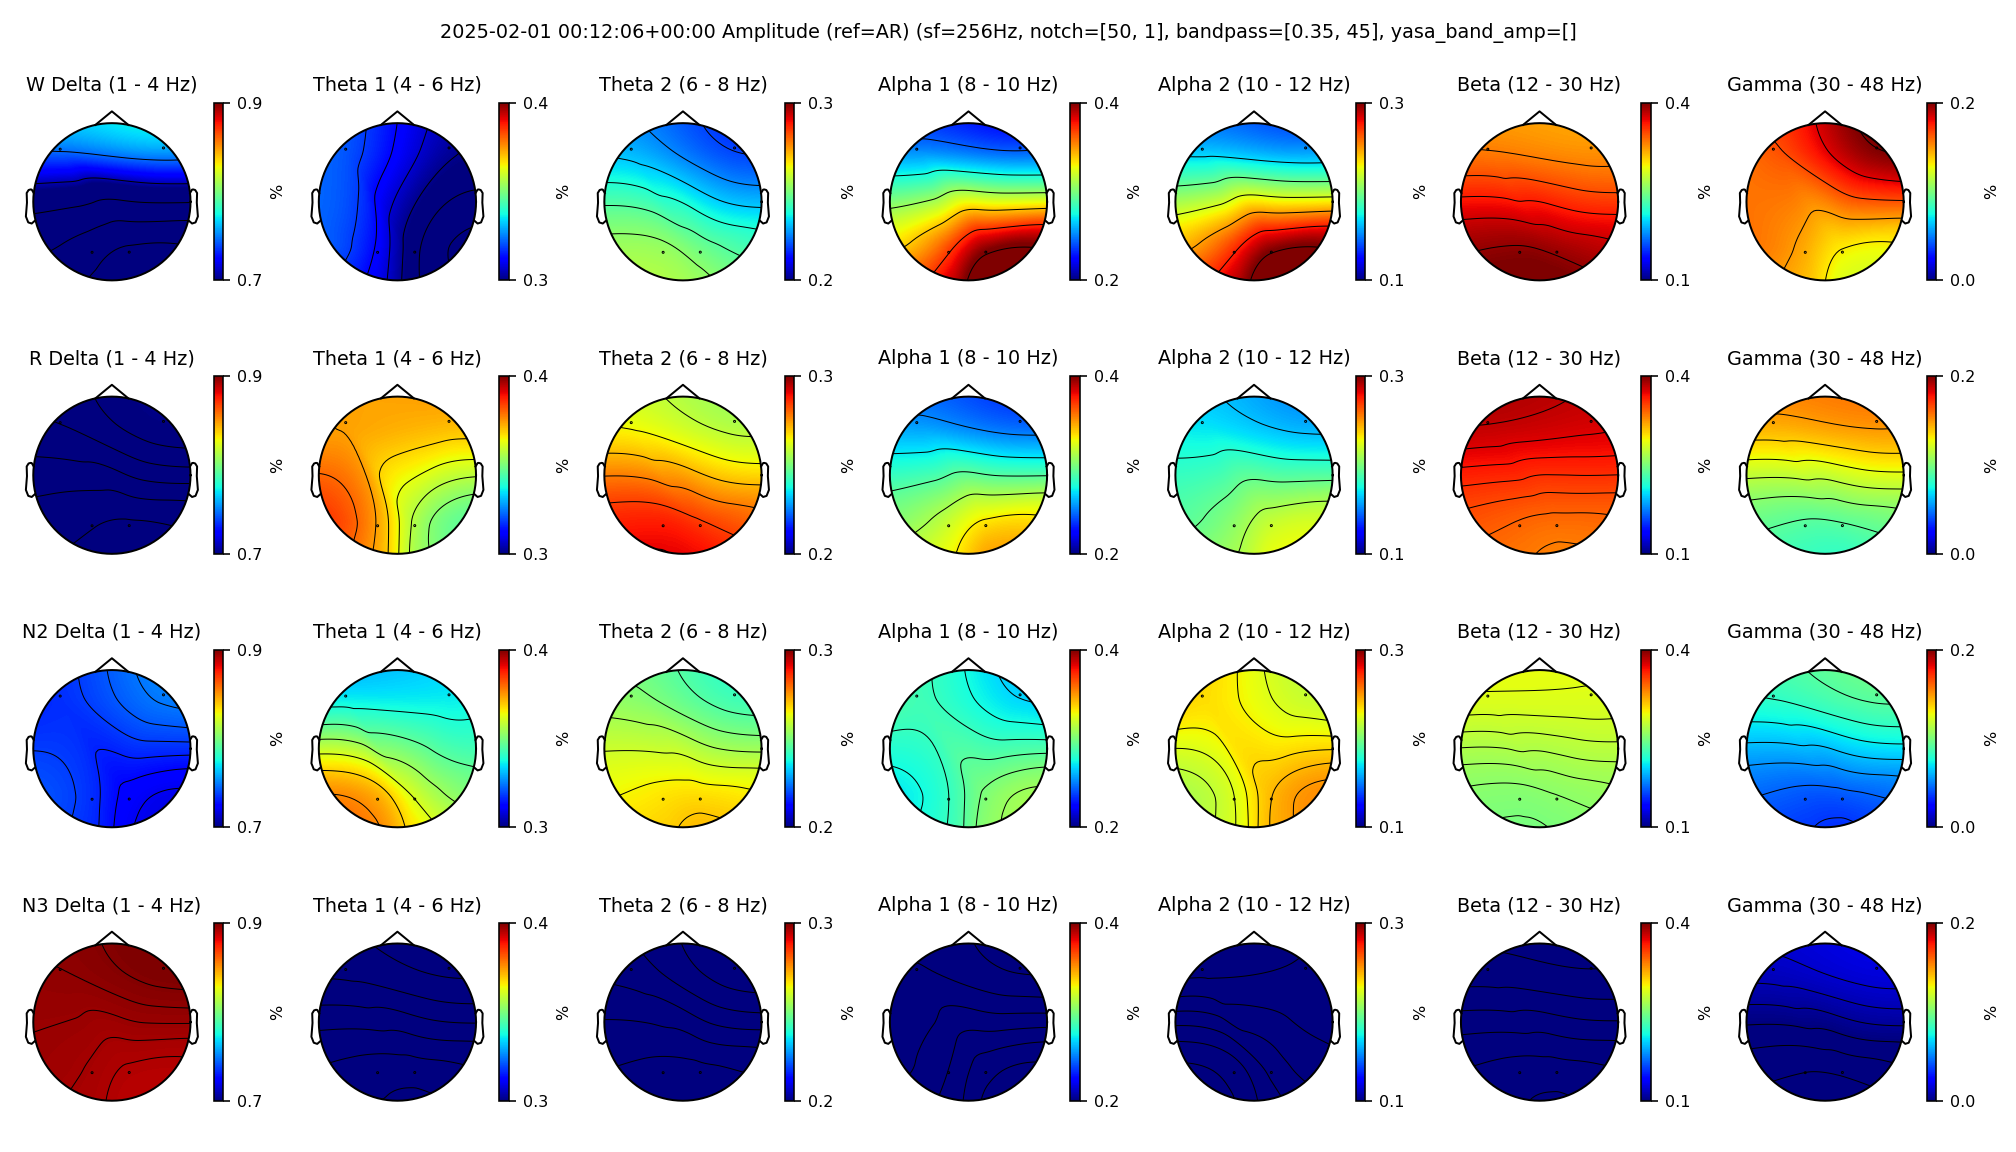
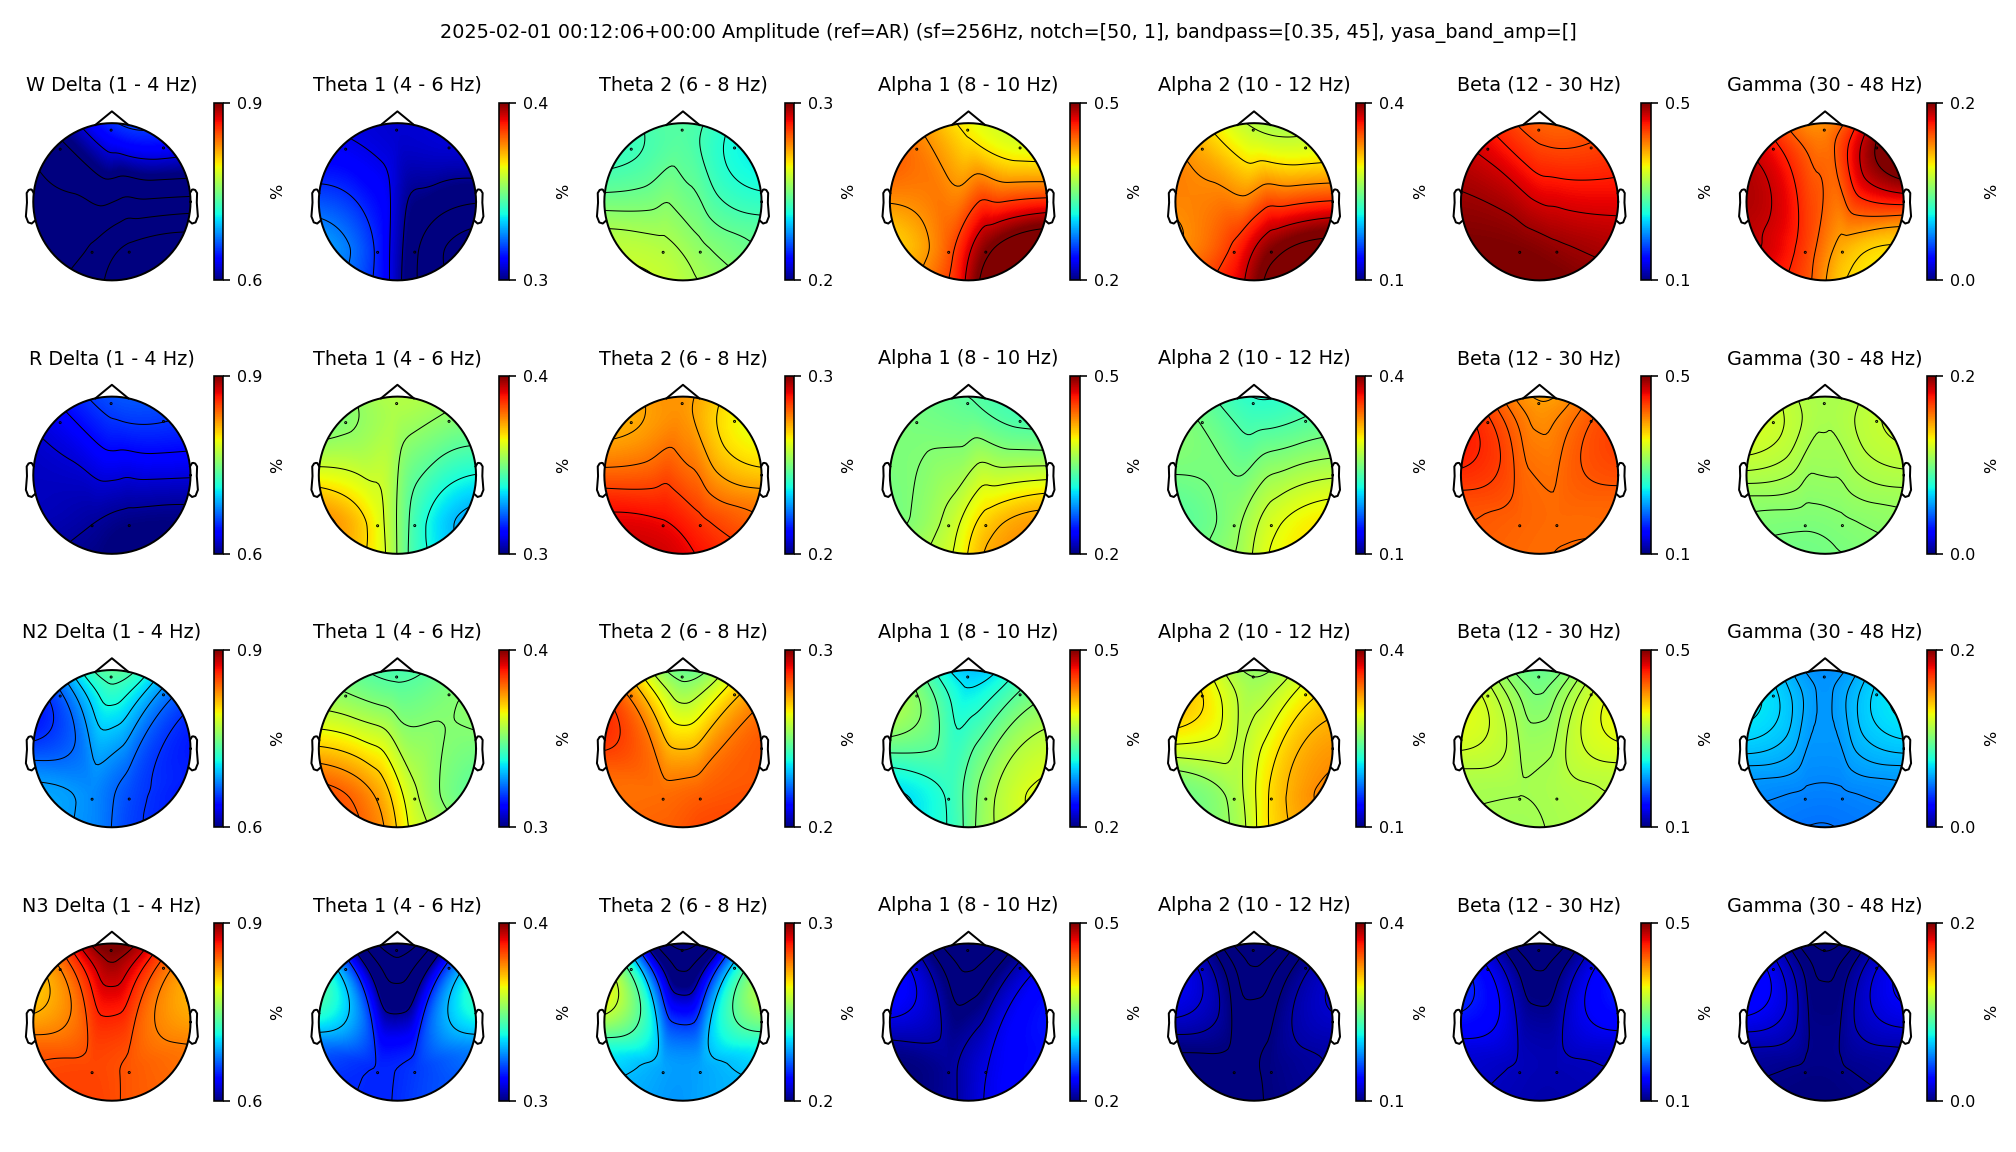
spectrum improvements and fixes

diff --git a/sleep_analysis.py b/sleep_analysis.py
@@ -75,12 +75,10 @@ topo_ref = 'AR' # 'REST' / 'AR' rereference type
 bp_relative = True # bandpass is relative or abs for topomap
 
 # multitaper spectrograms settings, can leave as is if not sure what is it
-spect_vlim = [6,24]
-spect_lim = [1,16]
-freq_lim = [1,30]
-time_bandwidth = 5 # Set time-half bandwidth
+spect_vlim = [6,24]; spect_lim = [1,16]; freq_lim = [1,30]
+time_bandwidth = 24 # Set time-half bandwidth
 num_tapers = time_bandwidth*2 - 1  # Set number of tapers (optimal is time_bandwidth*2 - 1)
-window_params = [90, 45]  # Window size is Xs with step size of Ys
+window_params = [60, 30]  # Window size is Xs with step size of Ys
 
 # units for labels
 units = {'psd_dB': 'dB(µV²/Hz)', 'amp': 'µV', 'p': 'µV²', 'p_dB': 'dB(µV²)', 'rel': '%'}
@@ -882,7 +880,6 @@ if load_bp or not ('bps' in globals() or 'bps' in locals()):
     raws_bp = []
     for index, raw in enumerate(raws):
         eeg_ch_names = list(refs_ch[index].keys())
-        eeg_ch_names.remove(refs[index])
         raw_bp  = raws[index].copy().pick(eeg_ch_names)
         ten_twenty_montage = mne.channels.make_standard_montage('standard_1020')
         raw_bp.set_montage(ten_twenty_montage , match_case=False, on_missing="ignore")
@@ -910,7 +907,6 @@ if load_bp or not ('bps' in globals() or 'bps' in locals()):
 if 'Topomap' in plots:
     for index, raw in enumerate(raws):
         eeg_ch_names = list(refs_ch[index].keys())
-        eeg_ch_names.remove(refs[index])
         raw  = raws[index].copy().pick(eeg_ch_names)
         
         fig, axes = plt.subplots(len(stages_plot),len(bp_bands), 
@@ -952,7 +948,6 @@ if 'Topomap' in plots:
     png_file = f"{dts[index].strftime(cfg['file_dt_format'])} topomap {user}.png"; png_filename = os.path.join(cfg['image_dir'], png_file)    
     if not os.path.isfile(png_filename) or image_overwrite: fig.savefig(png_filename)
 
-
 if 'Spectrum' in plots:
     # Multitaper spectrogram from Prerau Labs Multitaper Toolbox
     # https://github.com/preraulab/multitaper_toolbox/blob/master/python/multitaper_spectrogram_python.py
@@ -967,6 +962,12 @@ if 'Spectrum' in plots:
     clim_scale = False  # do not auto-scale colormap
     verbose = False  # print extra info
     xyflip = False  # do not transpose spect output matrix
+    
+    ch_order = ['F', 'C', 'O', 'T', 'A']
+    order_map = {letter: l_index for l_index, letter in enumerate(ch_order)}
+    def order_value(string):
+        first_letter = string[0]
+        return order_map.get(first_letter, float('inf'))  # Use inf for letters not in custom_order
 
     if load_spect or not ('spects_l' in globals() or 'spects_l' in locals()):
         spects_l = []; stimes_l = []; sfreqs_l = []
@@ -974,9 +975,11 @@ if 'Spectrum' in plots:
             spects_c = []; stimes_c = []; sfreqs_c = []
             eeg_ch_names = list(refs_ch[index].keys())
             eeg_ch_names.remove(refs[index])
-            raw  = raws[index].copy().pick(eeg_ch_names)
+            ch_eeg_sorted = sorted(eeg_ch_names, key=order_value)
 
-            for ch_index, ch in enumerate(eeg_ch_names):
+            raw  = raws[index].copy().pick(ch_eeg_sorted)
+
+            for ch_index, ch in enumerate(ch_eeg_sorted):
                 spect, stimes, sfreqs = multitaper_spectrogram(
                     raw.get_data(picks = [ch], units='uV'), raw.info['sfreq'], 
                     frequency_range, time_bandwidth, num_tapers, 
@@ -993,17 +996,82 @@ if 'Spectrum' in plots:
         eeg_ch_names = list(refs_ch[index].keys())
         eeg_ch_names.remove(refs[index])
         raw  = raws[index].copy().pick(eeg_ch_names)
-        n_ax = 4
-        n_cycles = 1 if len(eeg_ch_names) == 4 else round(len(eeg_ch_names)/n_ax + .5)
+        
+        # summary spectrum
+        fig, ax = plt.subplots(figsize=(14, 5))
+        old_fontsize = plt.rcParams["font.size"]
+        plt.rcParams.update({"font.size": 18})
+        fig.suptitle(f'#{raw.info["meas_date"].strftime(cfg["plot_dt_format"])} Spectrogram, {spect_specs}')
+
+        spect, stimes, sfreqs = np.array(spects_c).max(axis=0), stimes_c[0], sfreqs_c[0]
+        spect_data = nanpow2db(spect)
+        
+        start_time = raw.info['meas_date']
+        times = [start_time + timedelta(seconds=int(s)) for s in stimes]
+        
+        dtx = times[1] - times[0]
+        dy = sfreqs[1] - sfreqs[0]
+        x_s = mdates.date2num(times[0]-dtx)
+        x_e = mdates.date2num(times[-1]+dtx)
+        extent = [x_s, x_e, sfreqs[-1]+dy, sfreqs[0]-dy]
+
+        im = ax.imshow(
+            spect_data, extent=extent, aspect='auto', 
+            cmap=plt.get_cmap('jet'), 
+            vmin = spect_vlim[0], vmax = spect_vlim[1],
+            )
+        ax.xaxis_date()  # Interpret x-axis values as dates
+        ax.xaxis.set_major_formatter(mdates.DateFormatter('%H:%M'))  # Format time as HH:MM:SS
+        ax.invert_yaxis()
+        ax.set_xlabel("Time")
+        ax.set_ylabel("Frequency (Hz)")
+        ax.set_title(f'All Channels ({sig_specs})')
+        tick_intervals = np.linspace(x_s, x_e, 11)  # 11 points include 0% to 100%
+        ax.set_xticks(tick_intervals)
+        
+        h_min = 1.75; h_max = 13
+        p_size = 2
+        hypno_df = hypno_dfs[index]
+        hypno_stages = {}
+        # N3=3, N2=2, N1=1, R=4, W=0
+        hypno_stages['n3'] = hypno_df[(hypno_df['h'] == 3)]
+        hypno_stages['r'] = hypno_df[(hypno_df['h'] == 4)]
+        hypno_stages['n2'] = hypno_df[(hypno_df['h'] == 2)]
+        hypno_stages['w'] = hypno_df[(hypno_df['h'] == 0)]
+
+        if len(hypno_stages)> 0:
+            plt.scatter(hypno_stages['n3']['dt'], np.repeat(h_min, len(hypno_stages['n3'])), c='blueviolet', s=p_size, marker='s')
+            plt.scatter(hypno_stages['n2']['dt'], np.repeat(h_min + (h_max-h_min)/2, len(hypno_stages['n2'])), c='blue', s=p_size, marker='s')
+            plt.scatter(hypno_stages['r']['dt'], np.repeat(h_min + 2*(h_max-h_min)/3, len(hypno_stages['r'])), c='red', s=p_size, marker='s')
+            plt.scatter(hypno_stages['w']['dt'], np.repeat(h_max, len(hypno_stages['w'])), c='orange', s=p_size, marker='s')
+
+        # Scale colormap
+        if clim_scale:
+            clim = np.percentile(spect_data, [5, 98])  # from 5th percentile to 98th
+            im.set_clim(clim)  # actually change colorbar scale
+
+        plt.tight_layout()
+        plt.rcParams.update({"font.size": old_fontsize})
+        plt.subplots_adjust(left=0.05, right=0.95, top=0.85, bottom=0.05) 
+        
+        png_file = f"{dts[index].strftime(cfg['file_dt_format'])} merged spectrum {user}.png"; png_filename = os.path.join(cfg['image_dir'], png_file)    
+        if not os.path.isfile(png_filename) or image_overwrite: fig.savefig(png_filename)
+        
+        
+        n_ax = 2
+        n_up = 0 if (len(eeg_ch_names) % 2) == 0 else .5
+        n_cycles = round(len(eeg_ch_names)/n_ax + n_up)
 
         for cy in range(n_cycles):
             fig, axes = plt.subplots(n_ax, 
-                      figsize=(12, n_ax*6))
-            fig.suptitle(f'#{raw.info["meas_date"]} Multitaper spectrogram, {spect_specs}')
+                      figsize=(14, n_ax*5))
+            old_fontsize = plt.rcParams["font.size"]
+            plt.rcParams.update({"font.size": 18})
+            fig.suptitle(f'#{raw.info["meas_date"].strftime(cfg["plot_dt_format"])} Spectrogram, {spect_specs}')
             axes = axes.flatten()
             idx_range = cy*n_ax + np.arange(0, n_ax, 1)
-            for ch_index, ch in enumerate(eeg_ch_names[min(idx_range):(max(idx_range)+1)]):
-                spect, stimes, sfreqs = spects_l[index][cy*n_ax + ch_index], stimes_l[index][ch_index], sfreqs_l[index][cy*n_ax + ch_index]
+            for cch_index, cch in enumerate(ch_eeg_sorted[min(idx_range):(max(idx_range)+1)]):
+                spect, stimes, sfreqs = spects_c[cy*n_ax + cch_index], stimes_c[cch_index], sfreqs_c[cy*n_ax + cch_index]
                 spect_data = nanpow2db(spect)
                 
                 start_time = raw.info['meas_date']
@@ -1015,7 +1083,7 @@ if 'Spectrum' in plots:
                 x_e = mdates.date2num(times[-1]+dtx)
                 extent = [x_s, x_e, sfreqs[-1]+dy, sfreqs[0]-dy]
         
-                ax = axes[ch_index]
+                ax = axes[cch_index]
                 im = ax.imshow(
                     spect_data, extent=extent, aspect='auto', 
                     cmap=plt.get_cmap('jet'), 
@@ -1023,13 +1091,10 @@ if 'Spectrum' in plots:
                     )
                 ax.xaxis_date()  # Interpret x-axis values as dates
                 ax.xaxis.set_major_formatter(mdates.DateFormatter('%H:%M'))  # Format time as HH:MM:SS
-                fig.colorbar(im, ax=ax, label='PSD (dB)', shrink=0.8)
-                
                 ax.invert_yaxis()
-                
                 ax.set_xlabel("Time")
                 ax.set_ylabel("Frequency (Hz)")
-                ax.set_title(f'{raw.ch_names[cy*n_ax + ch_index]} - {refs_ch[index][eeg_ch_names[cy*n_ax + ch_index]]} ({sig_specs})')
+                ax.set_title(f'{ch_eeg_sorted[cy*n_ax + cch_index]} - {refs_ch[index][ch_eeg_sorted[cy*n_ax + cch_index]]} ({sig_specs})')
                 tick_intervals = np.linspace(x_s, x_e, 11)  # 11 points include 0% to 100%
                 ax.set_xticks(tick_intervals)
                 
@@ -1037,8 +1102,12 @@ if 'Spectrum' in plots:
                 if clim_scale:
                     clim = np.percentile(spect_data, [5, 98])  # from 5th percentile to 98th
                     im.set_clim(clim)  # actually change colorbar scale
+    
             plt.tight_layout()
-            png_file = f"{dts[index].strftime(cfg['file_dt_format'])} spect {user}.png"; png_filename = os.path.join(cfg['image_dir'], png_file)    
+            plt.rcParams.update({"font.size": old_fontsize})
+            plt.subplots_adjust(left=0.01, right=0.99, top=0.9, bottom=0.01) 
+            
+            png_file = f"{dts[index].strftime(cfg['file_dt_format'])} spect {cy} {user}.png"; png_filename = os.path.join(cfg['image_dir'], png_file)    
             if not os.path.isfile(png_filename) or image_overwrite: fig.savefig(png_filename)
 
 # Power frequency plot with mne PSD computation
